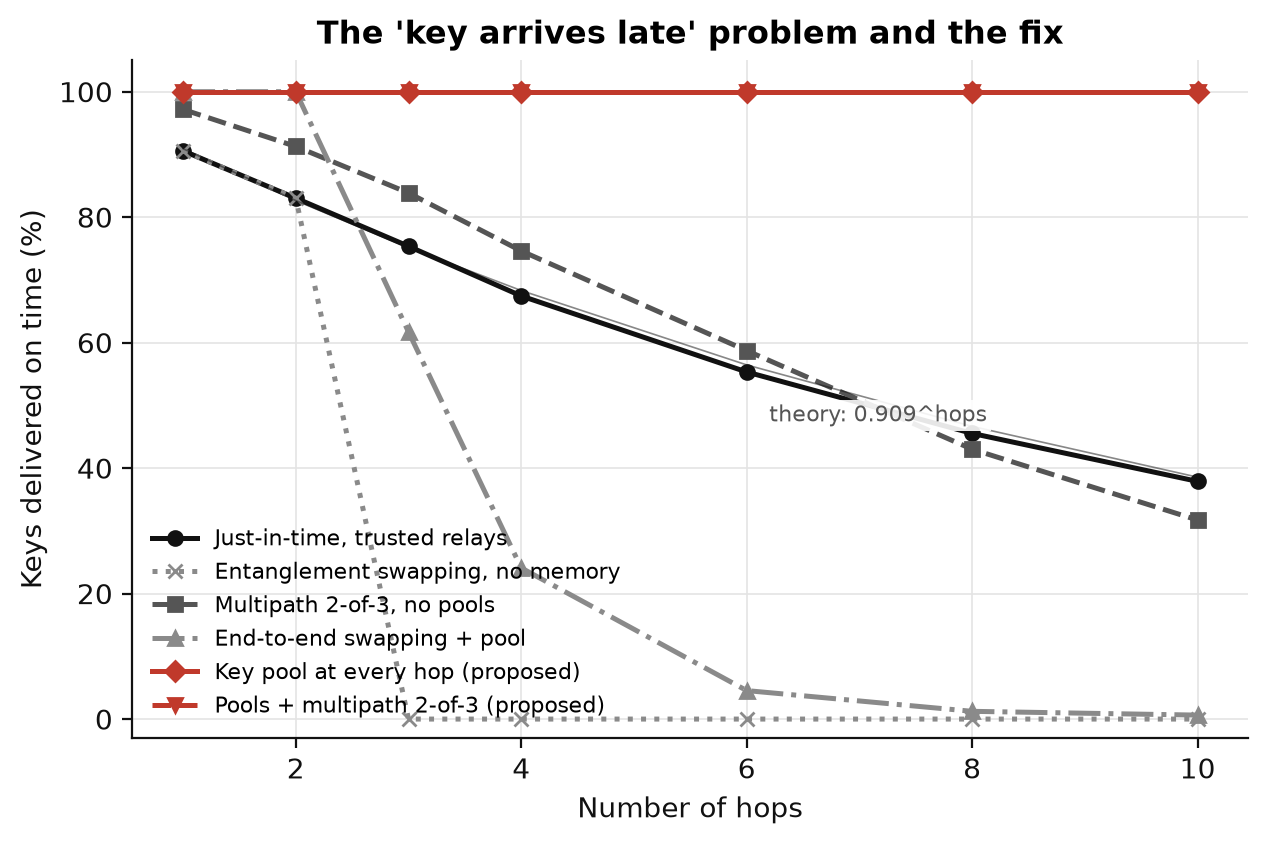
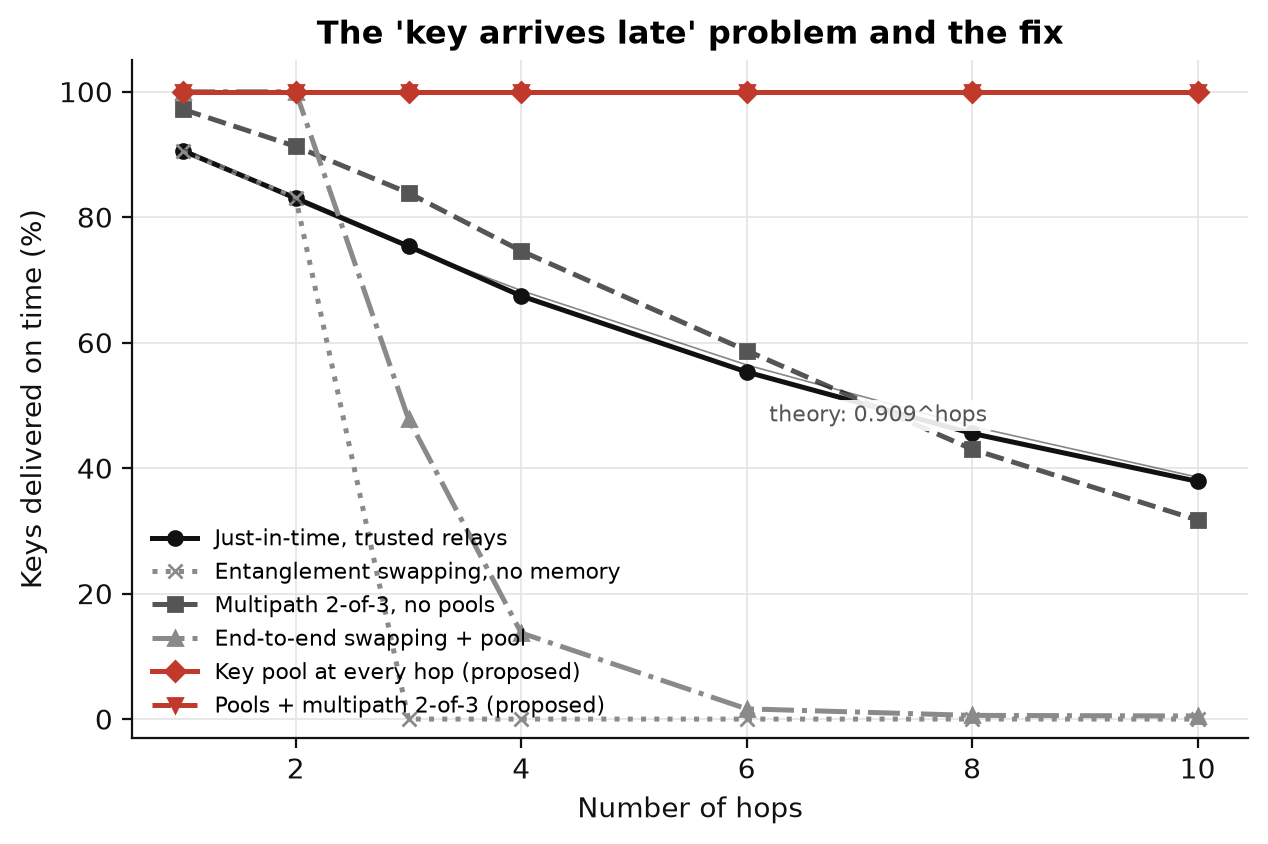
Physically grounded swapping-with-memory model

diff --git a/src/deliver.py b/src/deliver.py
@@ -1,6 +1,7 @@
 import numpy as np
 import pandas as pd
-from transports import Link, rates_at, eta_fiber
+from core import werner_weights, key_rate_tomographic
+from transports import Link, rates_at, eta_fiber, leg_qber, werner_from_qber
 from config import CFG
 
 D = CFG["delivery"]
@@ -23,14 +24,32 @@ def hop_rate(L, lk):
     return rates_at(L, lk, "tomographic", "direct")["key_mode"]
 
 
+def harmonic(n):
+    return sum(1 / k for k in range(1, n + 1))
+
+
+def swap_memory_model(hops, L, lk):
+    eta = eta_fiber(L, lk)
+    p = lk.mu * eta * lk.eta_det
+    attempts = harmonic(hops) / p
+    t_wait = attempts / lk.clock_hz
+    q_m = 1 - np.exp(-t_wait / lk.t2_mem_s) if hops > 1 else 0.0
+    f_link = werner_from_qber(leg_qber(eta, lk))[0]
+    w = ((4 * f_link - 1) / 3 * (1 - q_m)) ** hops
+    fidelity = (3 * w + 1) / 4
+    secret_fraction = key_rate_tomographic(werner_weights(fidelity))
+    readout = lk.eta_mem ** (2 * (hops - 1))
+    pair_rate = lk.clock_hz / attempts * lk.bsm_eff ** (hops - 1) * readout
+    return {"p_link": p, "attempts": attempts, "t_wait_s": t_wait, "q_mem": q_m, "fidelity": fidelity, "secret_fraction": secret_fraction, "readout": readout, "pair_rate": pair_rate, "key_rate": pair_rate * secret_fraction}
+
+
 def swap_rate(hops, L, lk, memory=False):
+    if memory:
+        return swap_memory_model(hops, L, lk)["key_rate"]
     eta = eta_fiber(L, lk) * lk.eta_det
     pairs = lk.clock_hz * lk.mu
     key_pp = D["key_per_swapped_pair"]
-    if not memory:
-        return pairs * eta ** hops * (lk.bsm_eff ** (hops - 1)) * key_pp
-    link = pairs * eta
-    return link * (lk.bsm_eff ** (hops - 1)) * key_pp / (1 + D["swap_memory_coeff"] * np.log2(max(hops, 1)) * D["swap_memory_factor"])
+    return pairs * eta ** hops * (lk.bsm_eff ** (hops - 1)) * key_pp
 
 
 def simulate_path(hops, strategy, T=D["duration_s"], L=D["hop_length_km"], demand=D["demand_bps"], deadline=D["deadline_s"], pool_cap=D["pool_cap_bits"], seed=D["seed"], lk=None, paths=D["paths"], k_of_n=D["k_of_n"], avail=(O["mean_up_s"], O["mean_down_s"])):

diff --git a/src/config.py b/src/config.py
@@ -40,6 +40,9 @@ def load(path=PATH):
     with open(path, encoding="utf-8") as fh:
         raw = yaml.safe_load(fh)
     _check(raw["simulation"], "simulation")
+    for name, formula in raw.get("formulas", {}).items():
+        if not str(formula.get("source", "")).strip():
+            raise ValueError(f"formulas.{name}: missing source")
     merged = _merge(_values(raw["physics"], "source", "physics"), _values(raw["design"], "reason", "design"))
     return _merge(merged, raw["simulation"])
 

diff --git a/README.md b/README.md
@@ -57,6 +57,8 @@ The file has three top-level sections:
 - `design` holds choices about how the system is built or analysed: buffer and pool depths, demand and load levels, pool capacities, the multipath 2-of-3 choice, the detector's feature windows and classifier settings, the false-alarm budget. Every entry gives a short reason. These are not claims that need evidence; a different designer could pick differently.
 - `simulation` holds how the model is run and plotted: seeds, durations, grids, numerical tolerances and the cases each figure shows. These are plain values with no source or reason.
 
+A fourth section, `formulas`, holds no numbers. It records where the approximations in the swapping model come from, each with an `expression` and a `source`.
+
 A `physics` entry has a `value` and a `source`, and may have a `unit` and a `note`. A `design` entry has a `value` and a `reason`, and may have a `unit`. A `simulation` entry is just a value:
 
 ```yaml
@@ -85,7 +87,7 @@ A `source` is one of two things:
 - A published reference with authors, year, title and a DOI or arXiv number. Each one was checked against its DOI or arXiv record and against the paper's abstract or full text. Where the paper supports a value without stating it exactly, the `note` says so.
 - The word `assumption` followed by a one-line reason. This covers design choices, modelled quantities and anything for which no reference could be verified.
 
-The file has 65 physics parameters, 36 design choices and 90 simulation settings. Eight physics parameters carry a published reference:
+The file has 62 physics parameters, 37 design choices and 90 simulation settings. Eight physics parameters carry a published reference:
 
 | Parameter | Value | Reference |
 | --- | --- | --- |
@@ -98,7 +100,7 @@ The file has 65 physics parameters, 36 design choices and 90 simulation settings
 | Finite-key correction coefficient | 7 | Scarani and Renner 2008, Phys. Rev. Lett. 100, 200501 |
 | Error-correction efficiency | 1.16 | Lim et al. 2014, Phys. Rev. A 89, 022307 |
 
-The other 57 physics parameters are assumptions and are labelled as such. Most of them are the modelled telemetry and attack signatures and the judgement scores of the design-space sweep.
+The other 54 physics parameters are assumptions and are labelled as such. Most of them are the modelled telemetry and attack signatures and the judgement scores of the design-space sweep.
 
 Three of the references support a value without measuring it. For the detector and memory efficiencies the papers show the value is achievable but do not state that exact number. For the dark-count probability the paper uses 1e-8 as an illustrative value with no experimental basis. The notes in `config.yaml` say so in each case.
 
@@ -124,7 +126,38 @@ To try a different value, edit it in `config.yaml` and re-run. Write numbers wit
 
 Mathematical constants stay in the code because they are part of the formulas, not choices: the factor of 10 in decibel conversion, the Werner-state and depolarising-channel coefficients, 0.5 as the largest possible error rate, and array dimensions. Plot styling in `src/figures.py` (figure sizes, colours, label positions) also stays in the code.
 
-Moving the parameters into `config.yaml` did not change any result. Computing the sweep's on-time figures at run time changed only the on-time column of `results/data/design_space_sweep.csv` and the shading in fig17; `results/key_numbers.json` and every other figure and CSV file are byte-for-byte the same as before.
+Moving the parameters into `config.yaml` did not change any result. Two later changes to the model did, and only where expected:
+
+- Computing the sweep's on-time figures at run time changed the on-time column of `results/data/design_space_sweep.csv` and the shading in fig17.
+- The swapping model described below changed the on-time delivery of end-to-end swapping with a pool, which appears in fig07, `results/data/on_time_vs_hops.csv`, `results/key_numbers.json` and the sweep.
+
+Every other figure, CSV file and number is byte-for-byte the same as before.
+
+## Entanglement swapping with memories
+
+`swap_memory_model` in `src/deliver.py` gives the key rate of a path of h links joined by entanglement swapping when every node has a quantum memory. It is used by two delivery strategies: just-in-time swapping with memory, and end-to-end swapping that fills a key pool.
+
+Each link creates pairs independently, succeeding on each clock cycle with probability p = mu × link transmission × detector efficiency. With memories, a link that succeeds holds its pair until all h links have one, and only then are the swaps done. The expected number of attempts until all h links have succeeded is taken as H_h / p, where H_h = 1 + 1/2 + ... + 1/h is the h-th harmonic number. This approximation is valid when p is small. Sangouard et al. 2011 (Rev. Mod. Phys. 83, 33) give the two cases H_2 = 3/2 and H_4 = 25/12 explicitly; the general form for h links is the same result and is not written out in that review.
+
+Three effects then reduce the rate:
+
+- Memory decoherence. While waiting, a stored pair is depolarised with probability q_m = 1 − exp(−t_wait / T2), where t_wait is the waiting time and T2 the memory coherence time. This is applied to every link pair for the full wait, which overstates the loss for the pairs created last. At one hop nothing is stored, so there is no decoherence.
+- Swapping. Each of the h − 1 swaps succeeds with the Bell-measurement efficiency. Every link pair is treated as a Werner state, and the end-to-end pair's Werner parameter is the product of the link pairs' parameters, so fidelity falls with every hop.
+- Memory readout. Each intermediate node reads out two stored halves for its swap, so the rate is multiplied by the memory efficiency to the power 2(h − 1). There is no factor at one hop.
+
+The end-to-end fidelity is turned into a secret fraction with the tomographic key-rate function in `src/core.py`, the same one used for the per-hop key rate. Swapping without memory keeps its flat key fraction of 0.8 per pair.
+
+The finding is that the memory's coherence time is not what limits swapping here. With T2 = 10 ms and 25 km hops, the wait is about 1 microsecond, so decoherence is of order 1e-4 and has no visible effect. The rate at 25 km per hop is:
+
+| Hops | With memory (bits/s) | Without memory (bits/s) | Meets 256 kbit/s demand |
+| --- | --- | --- | --- |
+| 1 | 2,321,901 | 2,150,349 | both |
+| 2 | 551,157 | 289,000 | both |
+| 3 | 160,720 | 38,841 | neither |
+| 4 | 50,229 | 5,220 | neither |
+| 10 | 54 | 0.03 | neither |
+
+Memories raise the rate at every path length, by about 10 times at 4 hops, but just-in-time delivery only asks whether the rate meets the demand. Both versions meet it at 1 and 2 hops and miss it from 3 hops on, so their on-time results are identical. The rate is limited by link loss, Bell-measurement success and memory readout loss, not by memory decoherence.
 
 ## Code layout
 
